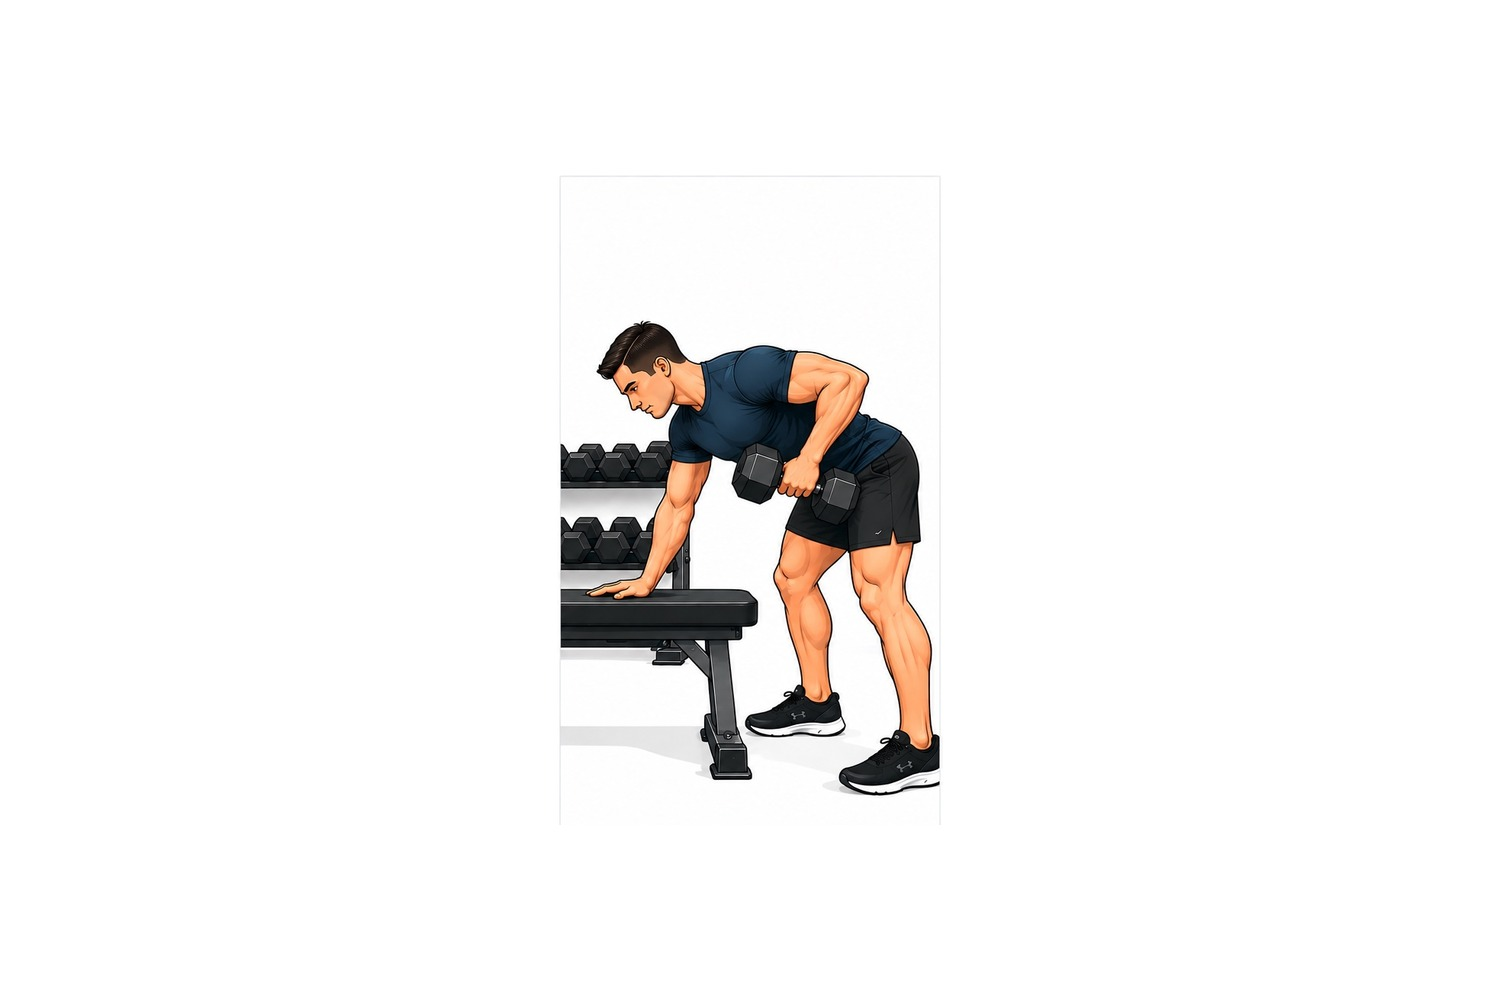
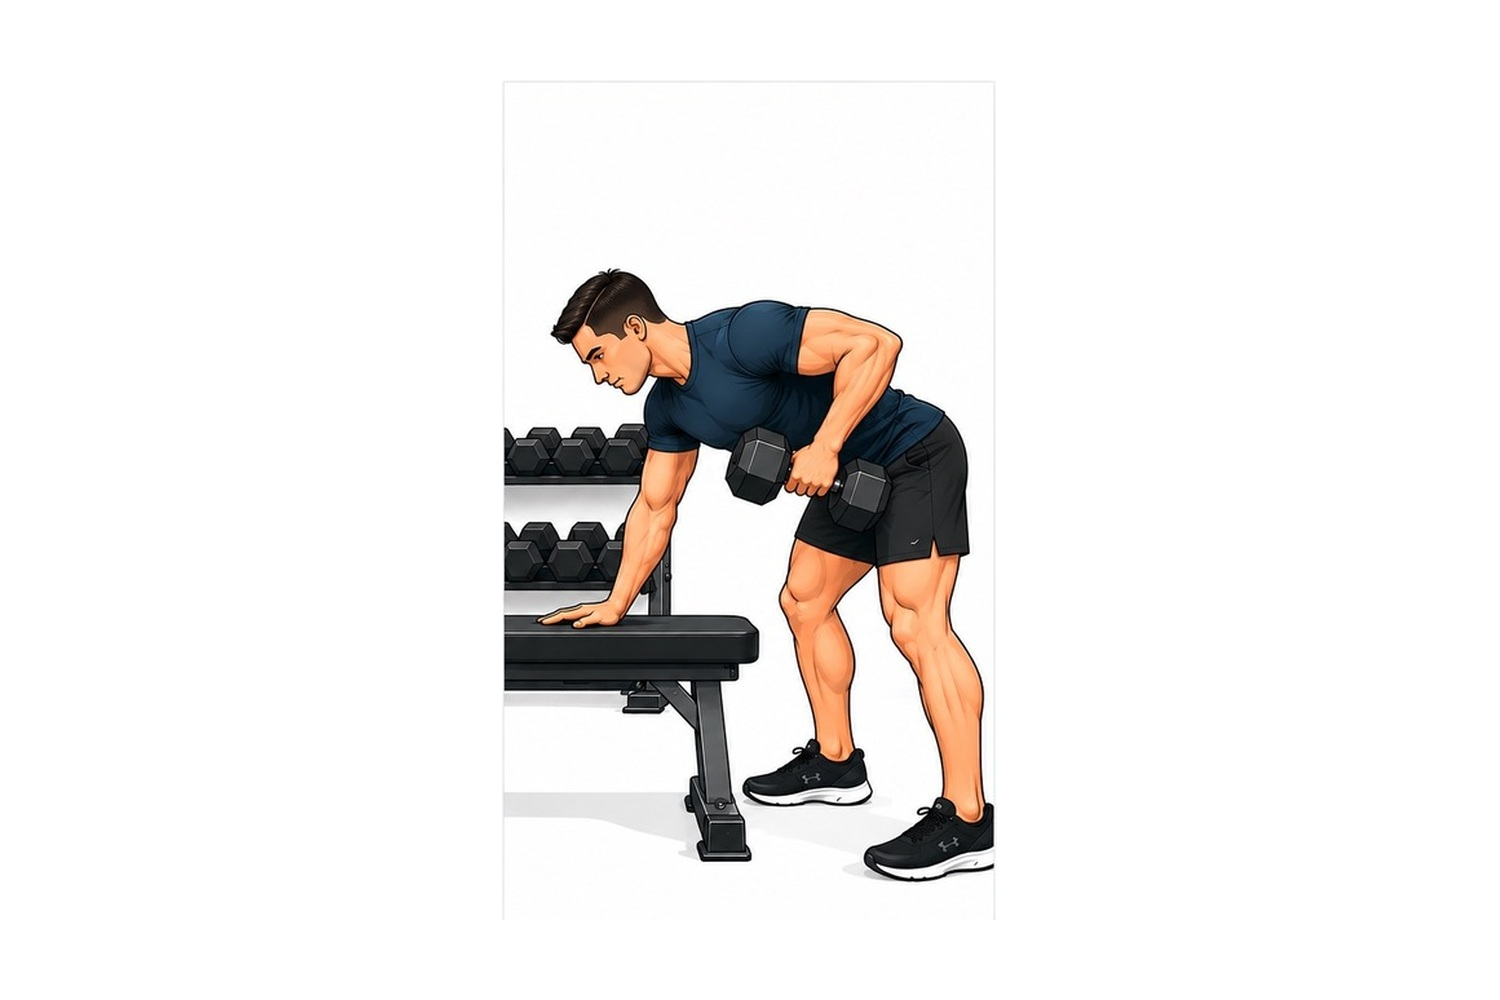
Increase refreshed artwork scale

Changed region(s): [[0.3373, 0.248, 0.6747, 0.899]]

diff --git a/service-worker.js b/service-worker.js
@@ -1,4 +1,4 @@
-const CACHE='gym-tracker-v6-9-artwork-test-3';
+const CACHE='gym-tracker-v6-9-artwork-test-4';
 const STATIC=["./manifest.webmanifest", "./icons/icon-192.png", "./icons/icon-512.png", "./assets/bike.jpg", "./assets/chest.jpg", "./assets/cross.jpg", "./assets/dbrow.jpg", "./assets/facepull.jpg", "./assets/foam.jpg", "./assets/glutebridge.jpg", "./assets/hinge.jpg", "./assets/hipabd.jpg", "./assets/hipext.jpg", "./assets/kneeext.jpg", "./assets/lat.jpg", "./assets/legcurl.jpg", "./assets/legpress.jpg", "./assets/pallof.jpg", "./assets/seatedrow.jpg", "./assets/shrug.jpg", "./assets/backextension45.jpg", "./assets/machine-hip-thrust-lower-back.jpg", "./assets/treadmill.jpg", "./assets/rower.jpg", "./assets/legpress-new.jpg", "./assets/facepull-new.jpg", "./assets/dbrow-new.jpg"];
 
 self.addEventListener('install', event => {
